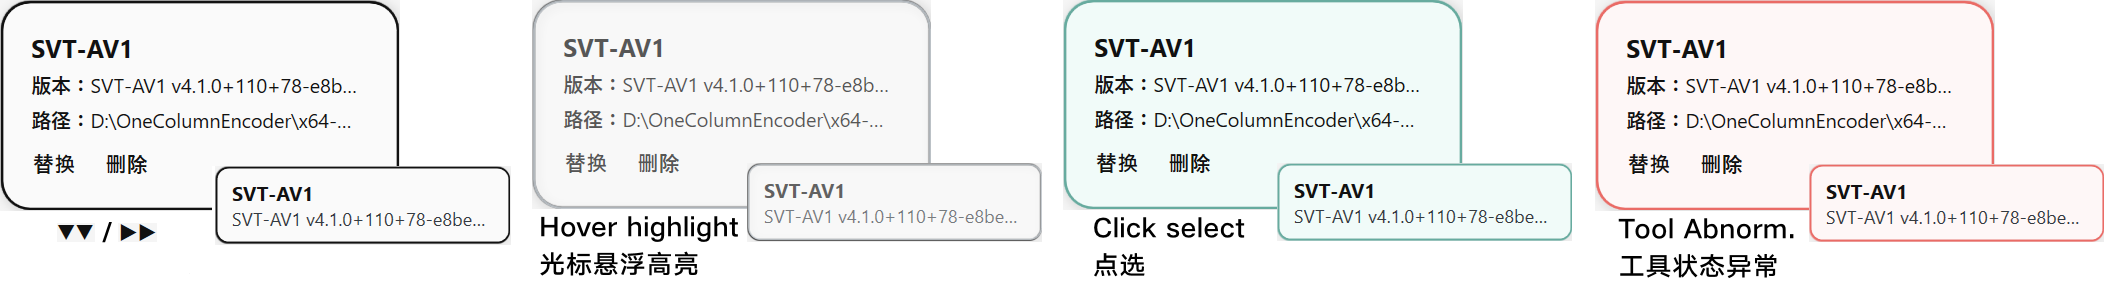
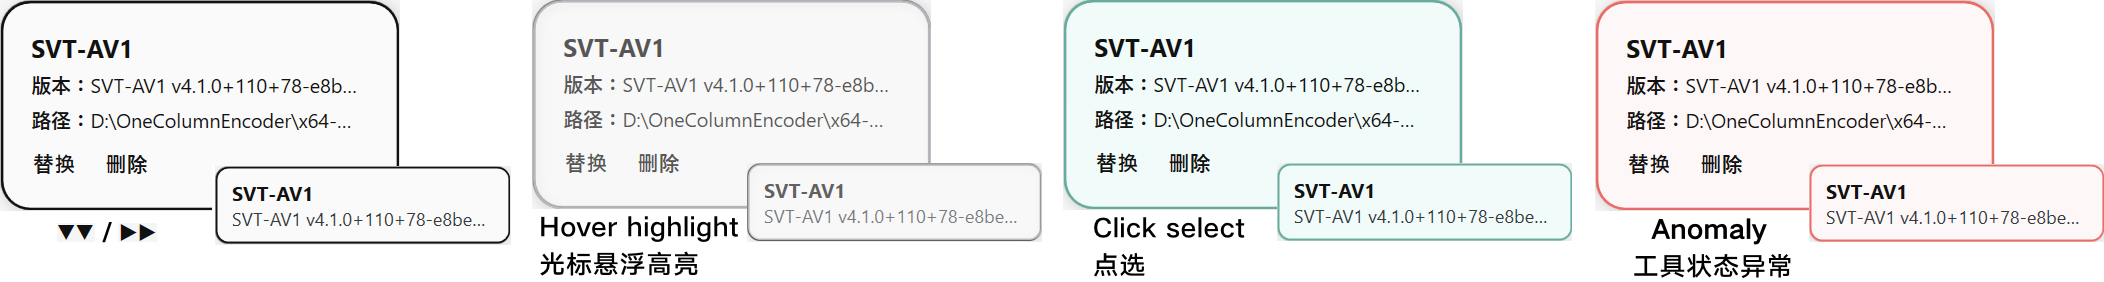
Image 6-10 for EN created

Changed region(s): [[0.7723, 0.8794, 0.865, 0.9929], [0.7723, 0.766, 0.865, 0.8511]]

diff --git a/1cenc-tutorial-1-EN.md b/1cenc-tutorial-1-EN.md
@@ -96,13 +96,13 @@ Since paths can be very long, tool cards provide two ways to display the full pa
 - Tooltip that appears after hovering the cursor for a while
 - In the hint text below after clicking to select the tool card
 
-<img src="./img-cn/6-Hover-Hint.png" alt="Hover hint" width=400 />
+<img src="./img-en/6-Hover-Hint.png" alt="Hover hint" width=400 />
 
 #### Titles and Buttons
 
 **Titles** indicate the operation step sequence and instructions, and include the expand/collapse button on the right.
 
-<img src="./img-cn/7-Main-Page-Title-Buttons.png" alt="Titles and buttons" width=600 />
+<img src="./img-en/7-Main-Page-Title-Buttons.png" alt="Titles and buttons" width=600 />
 
 **Buttons** perform operations or open windows, but are disabled when prerequisites are not met.
 
@@ -114,7 +114,7 @@ Various check items, including whether tools are selected, conditions for unlock
 - The checklist also supports collapse state
 - Click list items to view details
 
-<img src="./img-cn/8-Checklist.png" alt="Checklist" width=700 />
+<img src="./img-en/8-Checklist.png" alt="Checklist" width=700 />
 
 **4 Checklist Item States:**
 - Not checked — black text, closed-eye icon: the check item is not relevant to the current workflow and is skipped
@@ -126,7 +126,7 @@ Various check items, including whether tools are selected, conditions for unlock
 
 These cards have different functions, so their appearance differs from the default white-background black-text style. Video source cards typically open a file selection window when clicked; encoding config cards typically open a configuration window.
 
-<img src="./img-cn/9-Source-And-Config-ItemCards.png" alt="Video source and config cards" width=1300 />
+<img src="./img-en/9-Source-And-Config-ItemCards.png" alt="Video source and config cards" width=1300 />
 
 **Video Source Card Functions:**
 - **Video Source**: select a single video source
@@ -140,27 +140,27 @@ These cards have different functions, so their appearance differs from the defau
 
 The settings page is the slowest window to open in 1cenc — due to font settings loading.
 
-<img src="./img-cn/10-Settings.png" alt="Settings" width=500 />
+<img src="./img-en/10-Settings.png" alt="Settings" width=500 />
 
 #### Defaults and Recommended Values
 
-**File Overwrite Confirmation — Cooldown MB Divisor**
+**Overwrite Handling — Cooldown MB Divisor**
 - When a file to be overwritten is detected, calculates a cooldown duration based on the file size
 - Recommended to keep default to prevent large files from being easily overwritten; minimum is 1
 
-**Encoding Log TXT**
-- Saves runtime logs from the selected upstream program (ffmpeg, VapourSynth, ...) and downstream program (x264, x265, SVT-AV1) to files during encoding tasks
-- Recommended to enable for troubleshooting; the default file count limit is based on common anime episode counts (i.e., queue length)
+**Encoding Log TXTs**
+- Saves runtime logs from the selected upstream program (ffmpeg, VapourSynth, ...) and downstream program (x264, x265, SVT-AV1) to files
+- Recommended to enable for troubleshooting; the default number is based on common TV Show episode counts (i.e., queue length)
 
-**Auto Mux Switch**
-- Muxes the encoded video stream into `.mkv` format
-- Since x265 does not support auto mux (only exports `.hevc`) and causes loss of frame rate and other metadata, it is recommended to enable this for x265
-- x264 muxes to `.mp4`, SVT-AV1 muxes to lightweight `.ivf`; these formats have audio compatibility limitations, so disabling auto mux disables the audio processing mechanism
+**Auto Muxing**
+- Multiplexes the encoded video stream into `.mkv` container format
+- Since x265 comes without this capability (only exports `.hevc`) and may not keep frame rate metadata without parameter configuration, is recommended to keep x265 enabled
+- x264 muxes to `.mp4`, SVT-AV1 muxes to lightweight `.ivf`; these formats have audio compatibility limitations, so disabling auto mux also disables the audio processing mechanism
 
-**Auto Mux — Audio Processing**
-- Due to `.mkv`'s good compatibility and support by Adobe editing software, **single file** and **queue mode** recommend copying the audio stream directly to the muxed output
-- **Concat mode** and **repart mode** involve audio stream editing; some audio streams may not be supported or have poor support, so the default is set to re-encode
-- Although re-encoding supports Opus format, the default is intentionally set to AAC for compatibility
+**Auto Muxing — Audio Processing**
+- Due to `.mkv`'s good compatibility and support by Adobe editing software, **single file** and **queue mode** are defaults to copy mode for best quality and fastest processing
+- **Concat mode** and **repart mode** involve audio stream editing; some audio streams may not support, or have limited support, so the default is set to re-encode
+- Although re-encoding has Opus setting, the default is intentionally set to AAC due to its wider compatibility
 
 ---
 
